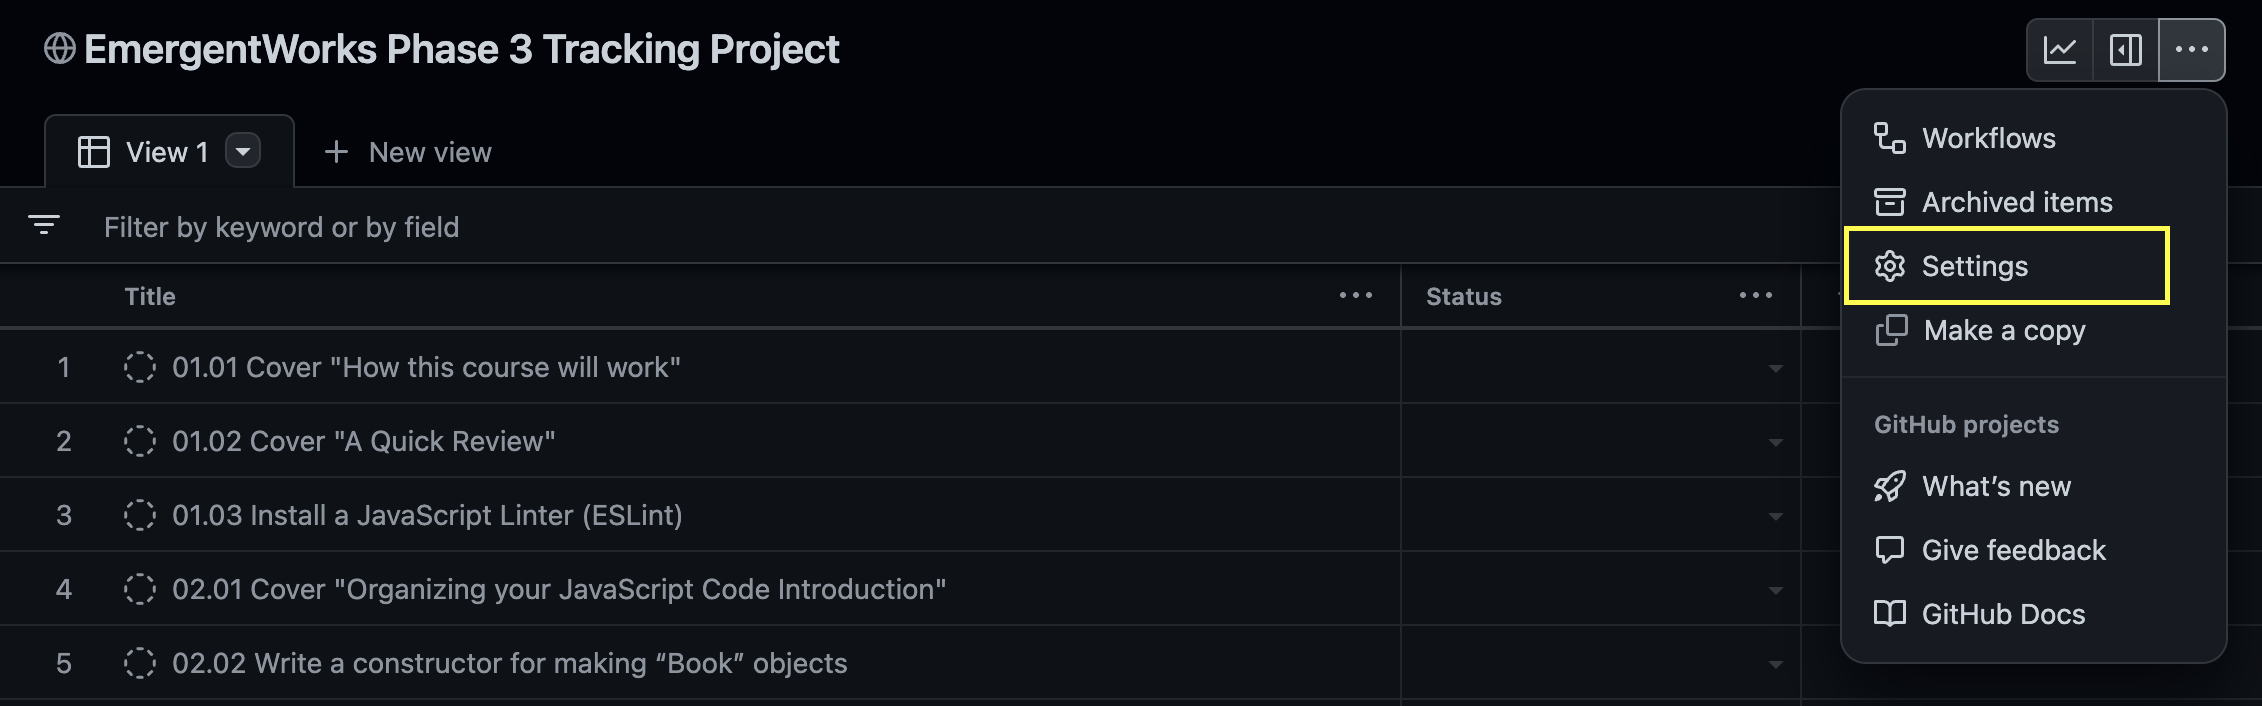
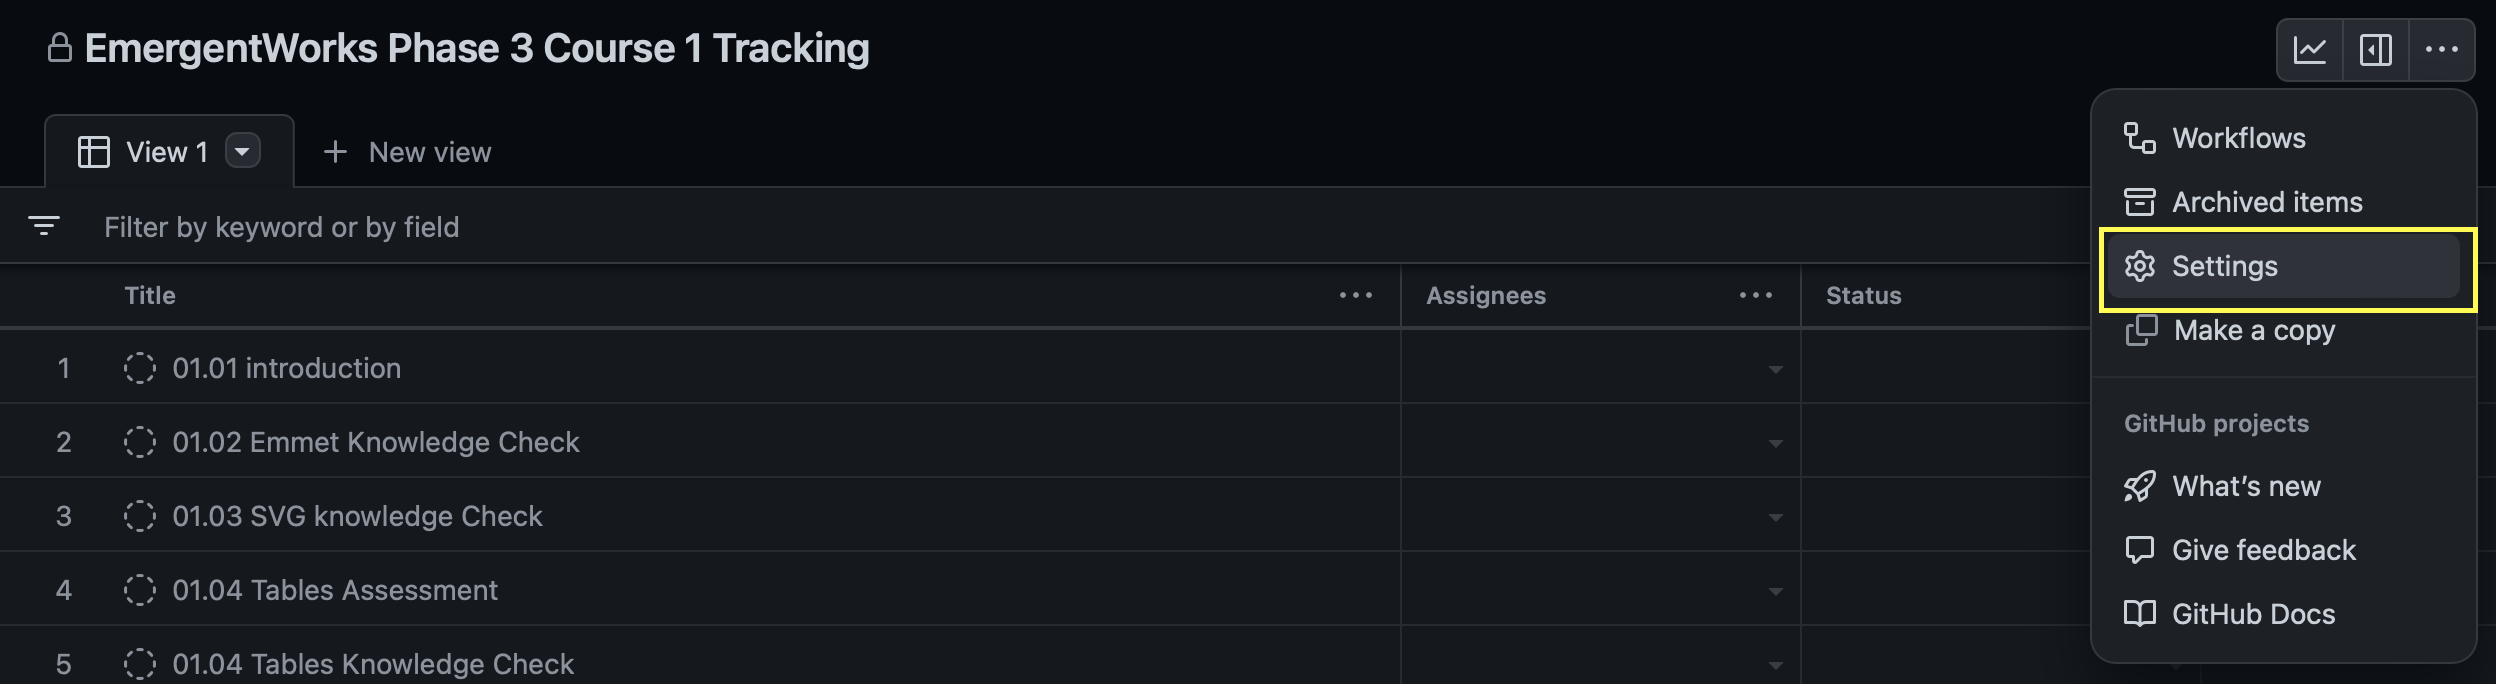
Adjustments for TOP courses

diff --git a/docs/Phase-3/repository-and-project-setup.md b/docs/Phase-3/repository-and-project-setup.md
@@ -10,59 +10,63 @@ permalink: /phase3/repoprojectsetup
 # Repository and Project Setup
 
 - Set up your repository
-  - Go to the [EmergentWorks phase-3-assignments](https://github.com/emergentworks/phase-3-assignments) repository template.
+  - Go to the repository template.
+    - For course 1 (Intermediate HTML and CSS) use [phase-3-01-intermediate-html-css-assignments](https://github.com/emergentworks/phase-3-01-intermediate-html-css-assignments)
+    - For course 2 (JavaScript) use [phase-3-02-javascript-assignments](https://github.com/emergentworks/phase-3-02-javascript-assignments)
   - Click on "Use this template" (option "Create a new repository")
-     <br/><img src="/curriculum/assets/images/UseTemplate1.png"  width="238" height="72">
-  - When the "Create a new repository from phase-3-assignments" pop-up appears:
+     <br/><img srcset="/curriculum/assets/images/UseTemplate1.png 2x">
+  - When the "Create a new repository from [REPO NAME]" pop-up appears:
     - Select your gitHub account
     - Assign a repository name 
     - Keep your new repo "Public"
     - Click the "Include all branches" checkbox (this will copy the "mentee" branch that's important for issue links to work)
-      <br/><img src="/curriculum/assets/images/UseTemplate2.png"  width="788" height="576">
+      <br/><img srcset="/curriculum/assets/images/UseTemplate2.png 2x">
     - Click the "Create repository from template" button
 - Set up your project
-  - Go to the [EmergentWorks projects page](https://github.com/orgs/emergentworks/projects) here.
+  - Go to the matching project.
+    - For course 1 (Intermediate HTML and CSS) use [EmergentWorks Phase 3 Course 1 Tracking](https://github.com/orgs/emergentworks/projects/4)
+    - For course 2 (JavaScript) use [EmergentWorks Phase 3 Course 2 Tracking](https://github.com/orgs/emergentworks/projects/2)
   - Click on the ellipses on the right, and click "Make a copy"
-    <br/><img src="/curriculum/assets/images/CopyProject1.png"  width="977" height="36">
+    <br/><img srcset="/curriculum/assets/images/CopyProject1.png 2x">
   - When the "Make a Copy" pop-up appears:
     - Select "Draft issues will be copied if selected" (this is important, as all tasks are set up as "draft issues")
     - Set your GitHub account as the "Owner" (you'll probably want this to be the Mentee's account)
     - Name the Project as you desire (I just removed the "[copy]" text)
-      <br/><img src="/curriculum/assets/images/CopyProject2.png"  width="490" height="414">
+      <br/><img srcset="/curriculum/assets/images/CopyProject2.png 2x">
     - Click the "Copy Project" button
 - Connect your project to your repo
   - Navigate to your new repo
   - click on the "Projects" tab.
-    <br/><img src="/curriculum/assets/images/ConnectProject1.png"  width="718" height="133">
+    <br/><img srcset="/curriculum/assets/images/ConnectProject1.png 2x">
   - Click on the "Link a Project" button
   - select the project you created to link the two
-    <br/><img src="/curriculum/assets/images/ConnectProject2.png"  width="433" height="198">
+    <br/><img srcset="/curriculum/assets/images/ConnectProject2.png 2x">
   - Be sure to make the project "public" so that your mentor can see it.
     - Select "Settings"
-    <br/><img src="/curriculum/assets/images/ConnectProject3.png"  width="1131" height="353">
+    <br/><img srcset="/curriculum/assets/images/ConnectProject3.png 2x">
     - Under "Visibility" select "Public"
-    <br/><img src="/curriculum/assets/images/ConnectProject4.png"  width="790" height="759">
+    <br/><img srcset="/curriculum/assets/images/ConnectProject4.png 2x">
 - Grant the "Write" role to your mentor.
   - From the Project settings, click the "Manage Access" tab on the left
   - Find your mentor in the search box for "Invite collaborators"
   - Make sure the Role is "Write" 
   - Click "Invite"
-    <br/><img src="/curriculum/assets/images/ConnectProject7.png"  width="1140" height="369">
+    <br/><img srcset="/curriculum/assets/images/ConnectProject7.png 2x">
 - Set up workflow to change status to "done" when issue is closed
   - From the ellipsis button on your project, click "Workflows"
-    <br/><img src="/curriculum/assets/images/ConnectProject5.png"  width="306" height="161">
+    <br/><img srcset="/curriculum/assets/images/ConnectProject5.png 2x">
   - select the "Item closed" workflow, and click the pencil icon to edit.
   - from the "Set value" dropdown, select "Done"
   - click the "Save and turn on workflow" button
-    <br/><img src="/curriculum/assets/images/ConnectProject6.png"  width="814" height="585">
+    <br/><img srcset="/curriculum/assets/images/ConnectProject6.png 2x">
 - Set up workflow to change status when a pull request is merged
   - Follow the same process to setup and turn on the "Pull request merged" workflow.
 - Add your mentor as a collaborator
   - In you repo, select the "Settings" tab at the top
   - Select the "Collaborators" tab to the left
   - Click the "Add people" button
-    <br/><img src="/curriculum/assets/images/Collab1.png"  width="1119" height="161">
+    <br/><img srcset="/curriculum/assets/images/Collab1.png 2x">
   - Use the search to find your mentor and select them as a collaborator
-    <br/><img src="/curriculum/assets/images/Collab2.png"  width="655" height="72">
+    <br/><img srcset="/curriculum/assets/images/Collab2.png 2x">
   - At this point, your mentor should receive an invite email and will show in your repo as "pending invite"
   - From the invite email the mentor can click the "View Invitation" button and accept the invite.
